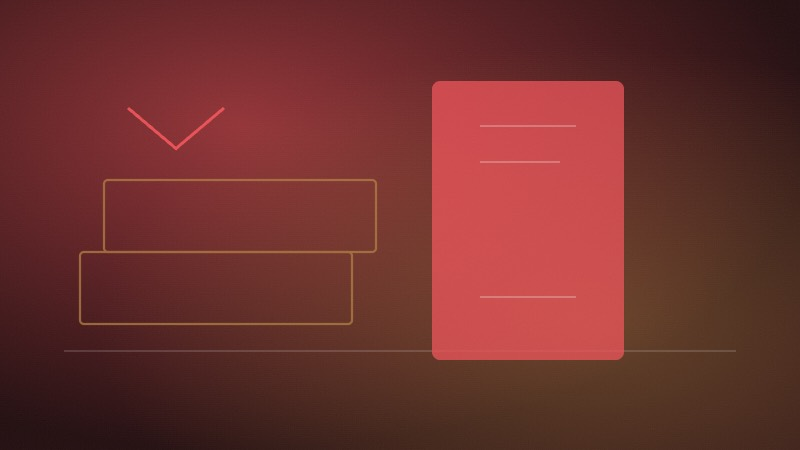
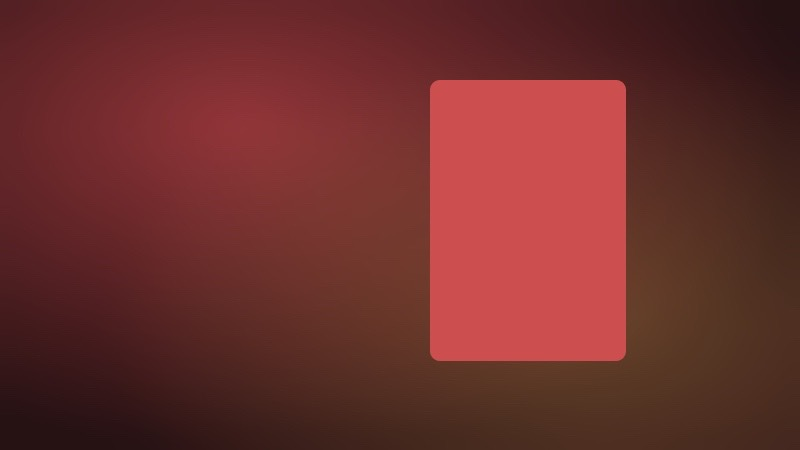
Send the five collections past under the hero, and let the shapes stand without their rulers
The catalog had lost its rolling band of collection names, and the five
style studies still carried the hairline frames, crosshairs and corner
brackets that belonged to an earlier draft. The roll comes back as CSS
only, since the CSP allows no inline script and js/hud.js stayed retired:
two identical lists ride one track that shifts by half its own width, so
the loop has no seam, and reduced motion leaves the five names standing
still. The tiles were redrawn off a plate lifted from their own shared
gradient, so only the rulers went.

diff --git a/css/style.css b/css/style.css
@@ -2655,3 +2655,31 @@ html[data-theme-mode="dark"] .theme-toggle .icon-moon{display:block}
 @media (prefers-reduced-motion:reduce){
   .hero__film{animation:none;scale:1.06;opacity:.5}
 }
+
+/* ==========================================================================
+   The catalog roll — the five collection names turning past under the hero.
+   Two identical lists ride one track that shifts by exactly half its own width,
+   so the loop has no seam. The gap lives at the end of each set rather than
+   between them, which is what keeps the join as wide as every other pair.
+   ========================================================================== */
+.roll{overflow:hidden;background:var(--bg-alt);
+  border-top:var(--t-bw) solid var(--border);border-bottom:var(--t-bw) solid var(--border);
+  padding:.95rem 0;
+  -webkit-mask-image:linear-gradient(90deg,transparent,#000 7%,#000 93%,transparent);
+  mask-image:linear-gradient(90deg,transparent,#000 7%,#000 93%,transparent)}
+.roll__track{display:flex;width:max-content;animation:bh-roll 32s linear infinite}
+.roll__set{display:flex;align-items:center;padding-inline-end:2.5rem}
+.roll__set li{display:flex;align-items:center;gap:2.5rem;padding-inline-end:2.5rem;
+  font-size:var(--t-fs-30);font-weight:var(--t-fw-semi);line-height:var(--t-lh-small);
+  color:var(--text-muted);white-space:nowrap}
+.roll__set li::after{content:"";flex:none;width:6px;height:6px;border-radius:50%;
+  background:var(--accent-fill);opacity:.75}
+@keyframes bh-roll{to{transform:translateX(-50%)}}
+
+/* A visitor who asked for less motion still gets the five names — they simply
+   stand still, and the second copy sits off the edge. In right-to-left the strip
+   runs the other way, because that is the direction the eye is already moving. */
+@media (prefers-reduced-motion:reduce){
+  .roll__track{animation:none}
+}
+html[dir="rtl"] .roll__track{animation-direction:reverse}

diff --git a/catalog.html b/catalog.html
@@ -39,7 +39,7 @@
   <meta name="apple-mobile-web-app-status-bar-style" content="black-translucent">
   <meta name="apple-mobile-web-app-title" content="BrownHub Studio">
   <link rel="preload" href="fonts/hanken-grotesk-latin.woff2" as="font" type="font/woff2" crossorigin>
-  <link rel="stylesheet" href="css/style.css?v=116">
+  <link rel="stylesheet" href="css/style.css?v=117">
   <script src="js/theme.js?v=2"></script><script src="js/player.js?v=1" defer></script><script src="js/voice.js?v=1" defer></script>
 </head>
 <body data-nav="catalog">
@@ -90,6 +90,29 @@
         <p>Every design product and package we offer — right here on the website. Tap any item to see details and order.</p>
       </div>
     </section>
+
+    <!-- The five collections, turning past under the hero. Both copies of the list
+         are the same five names the band below already carries, so the strip adds
+         no new dictionary keys, and aria-hidden keeps a screen reader from hearing
+         them twice. -->
+    <div class="roll">
+      <div class="roll__track" aria-hidden="true">
+        <ul class="roll__set">
+          <li>Flyers &amp; printing</li>
+          <li>Banners &amp; signage</li>
+          <li>Branded merchandise</li>
+          <li>Books &amp; covers</li>
+          <li>Frames &amp; awards</li>
+        </ul>
+        <ul class="roll__set">
+          <li>Flyers &amp; printing</li>
+          <li>Banners &amp; signage</li>
+          <li>Branded merchandise</li>
+          <li>Books &amp; covers</li>
+          <li>Frames &amp; awards</li>
+        </ul>
+      </div>
+    </div>
 
     <section class="section">
       <div class="container">

diff --git a/services.html b/services.html
@@ -39,7 +39,7 @@
   <meta name="apple-mobile-web-app-status-bar-style" content="black-translucent">
   <meta name="apple-mobile-web-app-title" content="BrownHub Studio">
   <link rel="preload" href="fonts/hanken-grotesk-latin.woff2" as="font" type="font/woff2" crossorigin>
-  <link rel="stylesheet" href="css/style.css?v=116">
+  <link rel="stylesheet" href="css/style.css?v=117">
   <script src="js/theme.js?v=2"></script><script src="js/player.js?v=1" defer></script><script src="js/voice.js?v=1" defer></script>
   <!-- Written out rather than generated by js/store.js so the rate card is in the
        HTML a crawler fetches before it runs any script. The four numbers below are

diff --git a/index.html b/index.html
@@ -39,7 +39,7 @@
   <meta name="apple-mobile-web-app-status-bar-style" content="black-translucent">
   <meta name="apple-mobile-web-app-title" content="BrownHub Studio">
   <link rel="preload" href="fonts/hanken-grotesk-latin.woff2" as="font" type="font/woff2" crossorigin>
-  <link rel="stylesheet" href="css/style.css?v=116">
+  <link rel="stylesheet" href="css/style.css?v=117">
   <script src="js/theme.js?v=2"></script><script src="js/player.js?v=1" defer></script><script src="js/voice.js?v=1" defer></script>
   <script type="application/ld+json">
 {

diff --git a/security.html b/security.html
@@ -39,7 +39,7 @@
   <meta name="apple-mobile-web-app-status-bar-style" content="black-translucent">
   <meta name="apple-mobile-web-app-title" content="BrownHub Studio">
   <link rel="preload" href="fonts/hanken-grotesk-latin.woff2" as="font" type="font/woff2" crossorigin>
-  <link rel="stylesheet" href="css/style.css?v=116">
+  <link rel="stylesheet" href="css/style.css?v=117">
   <script src="js/theme.js?v=2"></script><script src="js/player.js?v=1" defer></script><script src="js/voice.js?v=1" defer></script>
 </head>
 <body data-nav="security">

diff --git a/contact.html b/contact.html
@@ -39,7 +39,7 @@
   <meta name="apple-mobile-web-app-status-bar-style" content="black-translucent">
   <meta name="apple-mobile-web-app-title" content="BrownHub Studio">
   <link rel="preload" href="fonts/hanken-grotesk-latin.woff2" as="font" type="font/woff2" crossorigin>
-  <link rel="stylesheet" href="css/style.css?v=116">
+  <link rel="stylesheet" href="css/style.css?v=117">
   <script src="js/theme.js?v=2"></script><script src="js/player.js?v=1" defer></script><script src="js/voice.js?v=1" defer></script>
 </head>
 <body data-nav="contact">

diff --git a/privacy.html b/privacy.html
@@ -39,7 +39,7 @@
   <meta name="apple-mobile-web-app-status-bar-style" content="black-translucent">
   <meta name="apple-mobile-web-app-title" content="BrownHub Studio">
   <link rel="preload" href="fonts/hanken-grotesk-latin.woff2" as="font" type="font/woff2" crossorigin>
-  <link rel="stylesheet" href="css/style.css?v=116">
+  <link rel="stylesheet" href="css/style.css?v=117">
   <script src="js/theme.js?v=2"></script><script src="js/player.js?v=1" defer></script><script src="js/voice.js?v=1" defer></script>
 </head>
 <body data-nav="privacy">

diff --git a/about.html b/about.html
@@ -39,7 +39,7 @@
   <meta name="apple-mobile-web-app-status-bar-style" content="black-translucent">
   <meta name="apple-mobile-web-app-title" content="BrownHub Studio">
   <link rel="preload" href="fonts/hanken-grotesk-latin.woff2" as="font" type="font/woff2" crossorigin>
-  <link rel="stylesheet" href="css/style.css?v=116">
+  <link rel="stylesheet" href="css/style.css?v=117">
   <script src="js/theme.js?v=2"></script><script src="js/player.js?v=1" defer></script><script src="js/voice.js?v=1" defer></script>
 </head>
 <body data-nav="about">

diff --git a/legal.html b/legal.html
@@ -39,7 +39,7 @@
   <meta name="apple-mobile-web-app-status-bar-style" content="black-translucent">
   <meta name="apple-mobile-web-app-title" content="BrownHub Studio">
   <link rel="preload" href="fonts/hanken-grotesk-latin.woff2" as="font" type="font/woff2" crossorigin>
-  <link rel="stylesheet" href="css/style.css?v=116">
+  <link rel="stylesheet" href="css/style.css?v=117">
   <script src="js/theme.js?v=2"></script><script src="js/player.js?v=1" defer></script><script src="js/voice.js?v=1" defer></script>
 </head>
 <body data-nav="legal">

diff --git a/404.html b/404.html
@@ -34,7 +34,7 @@
   <meta name="apple-mobile-web-app-status-bar-style" content="black-translucent">
   <meta name="apple-mobile-web-app-title" content="BrownHub Studio">
   <link rel="preload" href="fonts/hanken-grotesk-latin.woff2" as="font" type="font/woff2" crossorigin>
-  <link rel="stylesheet" href="css/style.css?v=116">
+  <link rel="stylesheet" href="css/style.css?v=117">
   <script src="js/theme.js?v=2"></script>
   <script src="js/redirect.js?v=2"></script>
 </head>

diff --git a/engineering.html b/engineering.html
@@ -18,7 +18,7 @@
   <meta name="impact-site-verification" value="f7014f87-9393-4437-a140-1b7f4e95ebcc">
   <link rel="canonical" href="https://www.brownhub283.com/">
   <link rel="icon" type="image/png" href="images/favicon.png">
-  <link rel="stylesheet" href="css/style.css?v=116">
+  <link rel="stylesheet" href="css/style.css?v=117">
   <script src="js/theme.js?v=2"></script>
 </head>
 <body>

diff --git a/websites.html b/websites.html
@@ -18,7 +18,7 @@
   <meta name="impact-site-verification" value="f7014f87-9393-4437-a140-1b7f4e95ebcc">
   <link rel="canonical" href="https://www.brownhub283.com/">
   <link rel="icon" type="image/png" href="images/favicon.png">
-  <link rel="stylesheet" href="css/style.css?v=116">
+  <link rel="stylesheet" href="css/style.css?v=117">
   <script src="js/theme.js?v=2"></script>
 </head>
 <body>
